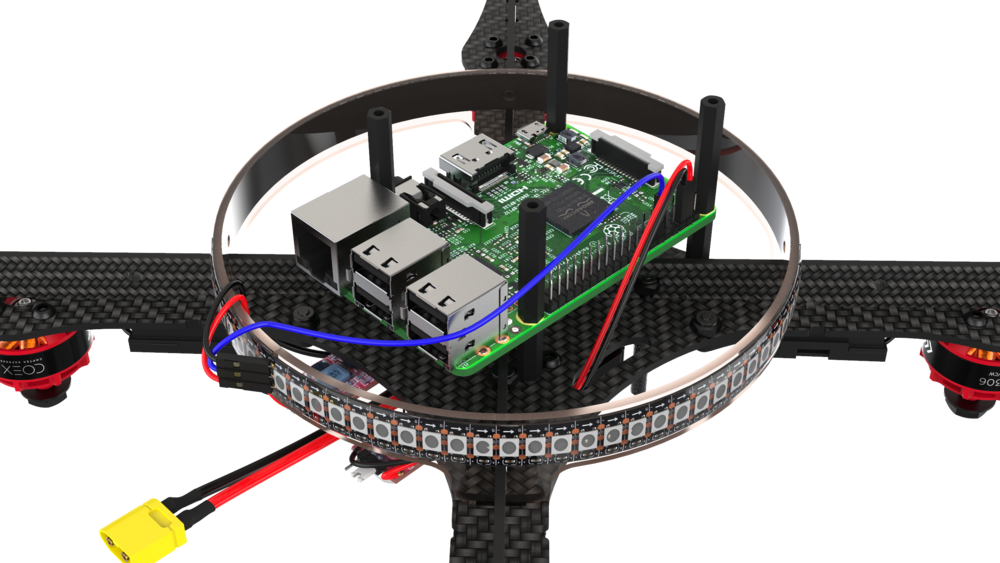
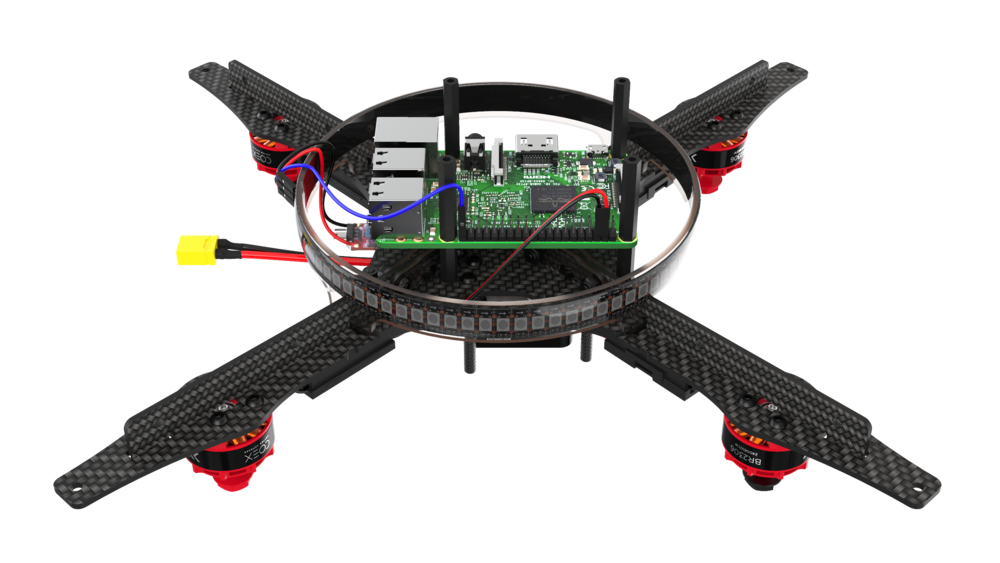
docs: Update LED connection images

diff --git a/docs/ru/assemble_4.md b/docs/ru/assemble_4.md
@@ -252,7 +252,10 @@
 1. Питание для ленты берется от второго BEC. Подключите контакты *«-»* и *«+»* к *Ground* и *5v* на ленте соответственно.
 2. Подключите контакт *D* к GPIO-пину на Raspberry. Рекомендуется использовать пин GPIO21.
 
-<img src="../assets/4/31_1.png" width=300 class="zoom center border">
+    <div class="image-group">
+        <img src="../assets/4/31_1.png" width=300 class="zoom border">
+        <img src="../assets/4/31_2.png" width=300 class="zoom border">
+    </div>
 
 ## Установка шлейфа для камеры
 

diff --git a/docs/en/assemble_4.md b/docs/en/assemble_4.md
@@ -252,7 +252,10 @@ The flight controller expects PPM signal from your RC gear. Switch your transmit
 1. Power the LED strip from a separate BEC. Connect the **«+»** and **«-»** leads to **5v** and **Ground** respectively.
 2. Connect the **D** lead to GPIO21 (consult the [relevant article](leds.md) for more information).
 
-<img src="../assets/4/31_1.png" width=300 class="zoom center border">
+    <div class="image-group">
+        <img src="../assets/4/31_1.png" width=300 class="zoom border">
+        <img src="../assets/4/31_2.png" width=300 class="zoom border">
+    </div>
 
 ## Installing the camera cable
 
